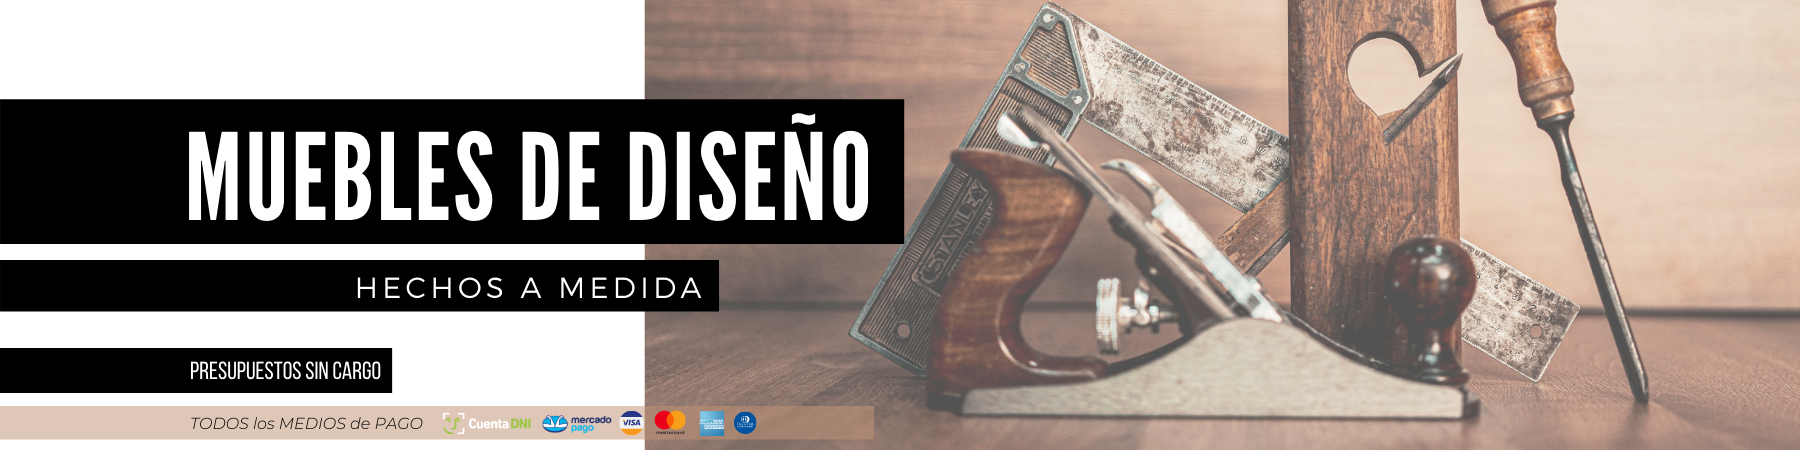
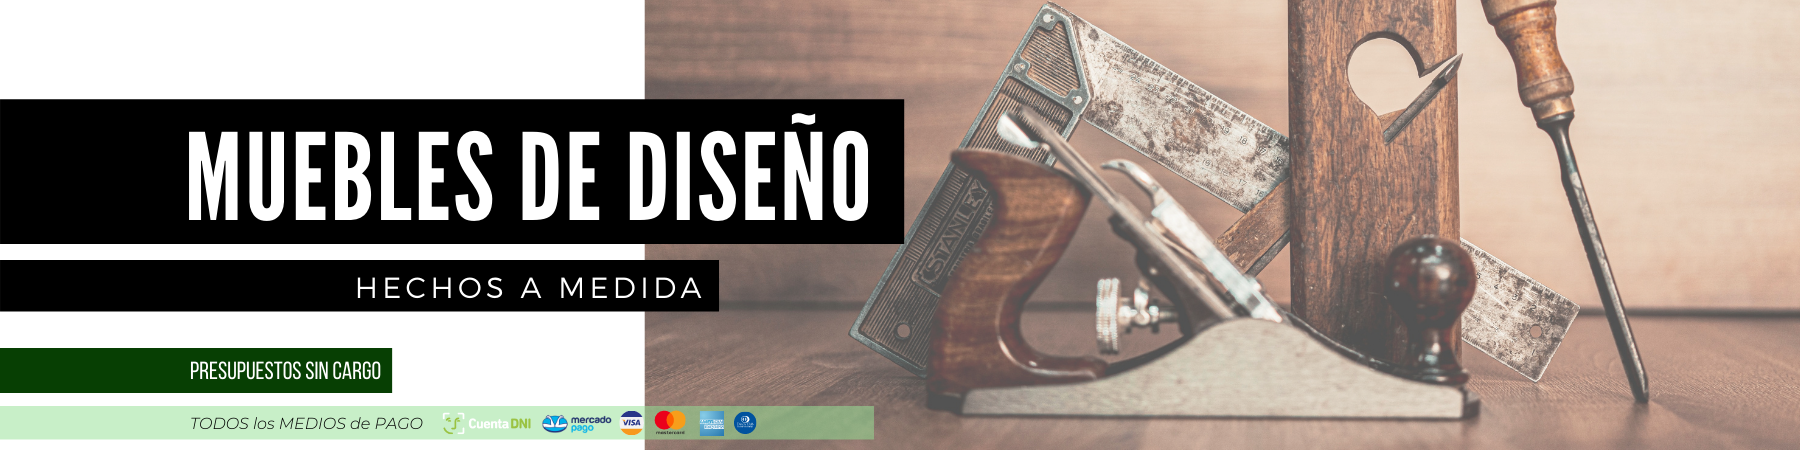
css changes
on product page

Changed region(s): [[0.0, 0.9022, 0.4978, 0.9956], [0.0, 0.7467, 0.2178, 0.8711]]

diff --git a/public/css/main.css b/public/css/main.css
@@ -1,18 +1,35 @@
 body {
     font-family: "Roboto";
     font-weight: 300;
-    width: 100vw;    
 }
 header {
     display: flex;
     align-content: flex-start;
     justify-content: space-between;
-    height: 15vh;
+    height: 10vh;
+    padding: 0px 5px;
   }
   .Logo {
     display: flex;
+    border-radius: 4px;
   }
   
+  .banner {
+    background-image: url("../images/presupuestos sin cargo.png");
+    background-repeat: no-repeat;
+    background-size: contain;
+    display: flex;
+    max-width: 100vw;
+    height:50vh;
+  }
+
+  a{
+    text-decoration: none;
+  }
+  a:-webkit-any-link {
+    color: black;
+    cursor: pointer;
+}
   .nav img {
     width: 4vh;
     padding: 15%;
@@ -22,15 +39,12 @@ header {
     justify-content: flex-end;
     align-items: center;
   }
-  .banner {
-    display: flex;
-    max-width: 100vw;
-  }
+  
   .titulo {
     display: flex;
     font-family: "Caveat";
     font-weight: 100;
-    font-size: larger;
+    font-size: large;
     
   }
   .titulo h1 {
@@ -42,6 +56,8 @@ header {
     padding-left: 2%;
     padding-top: 1%;
     font-weight: 400;
+    font-family: "Montserrat", sans-serif;
+    font-size: xx-large;
 }
 .Categoria {
     *display: flex;
@@ -52,7 +68,7 @@ header {
 .imagenProducto {
     display: flex;
     object-fit: cover;
-    max-width: 19.8vw;
+    max-width: 19.6vw;
     height: 40vh;
     border-radius: 13px 13px 0px 0px;
   }
@@ -78,7 +94,7 @@ header {
     display: flex;
     justify-content: center;
     color: white;
-    font-weight: 500;
+    font-weight: 600;
     font-size: medium;
     width: 100%;
     margin: 0px;
@@ -87,75 +103,122 @@ header {
     padding-right: 1px;
     background-color: black;
   }
-  .paginaProducto{
-      display: flex;
-      flex-direction: column;
-      align-items: center;
+  
+/*--------------PRODUCTOS------------*/
+
+  section {
+    padding-top: 3%;
   }
   .imgproducto{
-      width: 17vw;
+      max-width: 45vw;
   }
   .tituloProducto{
       display: flex;
       align-items: flex-start;
-      padding-left: 3vw;
+      color: #073f03;
+      *background-color:rgba(150,225,150) ;
+      padding: 5px 0px 5px 5px;
+      font-family: 'Monserrat Light', sans-serif;
+      font-weight: 300;
+      font-size: xx-large;
+      text-decoration: underline rgba(150,225,150) ;
+      
   }
   .descrip {
     text-align: center;
   }
   table{
-    border: 3px solid purple;
     max-width: 50vw;
     margin-top: 5vh;
   }
   th, td {
     width: 25%;
     text-align: center;
-    vertical-align: top;
-    border: 1px solid #000;
- }
- .InfoProducto{
-     display: flex;
-     justify-content: center;
- }
- .descripcion{
-     display: flex;
-     flex-direction: column;
-     padding-left: 15vw;
- }
-  
-  @media (max-width: 768px) {
-    .titulo h1 {
-      display: flex;
-      padding-left: 5%;
-      align-self: center;
-      font-size: medium;
-    }
-    .Logo {
-      width: 9vh;
-      height: 9vh;
-    }
-    header {
-      height: 9vh;
-      width: 100vw;
-    }
-    .CardProducto {
-        width: 80%;
-      }
-      .imagenProducto {
-        max-width: 100%;
-      }
-    }
-    .Categoria {
-            flex-direction: column;
-            width: 100vw;
-            justify-content: center;
-            align-items: center;
-        }
-        body {
-            width: 100vw;
-        }
-        .titulosCategorias {
-            font-size: medium;
-        }
-  
+    vertical-align: center;
+    border: 1px solid rgba(150,225,150);
+    border-radius: 5px;
+    padding: 5px;
+}
+.InfoProducto{
+    display: flex;
+    justify-content: center;
+}
+.descripcion{
+    display: flex;
+    flex-direction: column;
+    padding-left: 10%;
+}
+p {
+  font-weight: 600;
+}
+.back {
+  background-color: rgba(150,225,150,0.1);
+}
+.backp {
+  background-color: rgba(150,225,150,0.5);
+}
+
+/*------footer----------*/
+
+.footers {
+  text-align: center;
+  background-color: rgba(150,225,150,0.5);
+  margin-bottom: 0px;
+  padding: 10px 0px;
+  font-size: small;
+  color: #073f03;
+}
+.bolds {
+  font-weight: 700;
+}
+
+/*---------------MEDIA QUERIES-------------------*/
+@media (max-width: 768px) {
+  .titulo h1 {
+    display: flex;
+    padding-left: 5%;
+    align-self: center;
+    font-size: medium;
+  }
+  .Logo {
+    width: 9vh;
+    height: 9vh;
+  }
+  header {
+    height: 9vh;
+  }
+  .CardProducto {
+    width: 90%;
+  }
+  .imagenProducto {
+    max-width: 100%;
+  }
+  .Categoria {
+    flex-direction: column;
+    width: 100vw;
+    justify-content: center;
+    align-items: center;
+  }
+  body {
+    width: 100vw;
+  }
+  .titulosCategorias {
+    font-size: medium;
+  }
+  .descripcion {
+    padding-left: 0%;
+  }
+  .banner {
+    background-image: url("../images/banner-tablet.png") ;
+    height: 30vh;
+  }
+  .InfoProducto {
+    flex-direction: column;
+  }
+  table {
+    max-width: none;
+  }
+  .imgproducto {
+    max-width: 95vw;
+  }
+}

diff --git a/public/productos/sambiaTV.html b/public/productos/sambiaTV.html
@@ -1,0 +1,84 @@
+<!DOCTYPE html>
+<html>
+
+<head>
+    <meta charset="utf-8">
+    <meta name="viewport" content="width=device-width, initial-scale=1">
+    <title>Amoblamientos y Arte</title>
+    <link rel="stylesheet" href="../css/main.css">
+    <!-- Fonts -->
+    <link rel="preconnect" href="https://fonts.googleapis.com">
+    <link rel="preconnect" href="https://fonts.gstatic.com" crossorigin>
+    <link href="https://fonts.googleapis.com/css2?family=Caveat&display=swap" rel="stylesheet">
+    <link href="https://fonts.googleapis.com/css2?family=Caveat&family=Roboto:wght@100&display=swap" rel="stylesheet">
+    <link rel="preconnect" href="https://fonts.googleapis.com">
+    <link rel="preconnect" href="https://fonts.googleapis.com">
+<link rel="preconnect" href="https://fonts.gstatic.com" crossorigin>
+<link href="https://fonts.googleapis.com/css2?family=Montserrat:ital,wght@0,100;0,600;0,700;0,800;0,900;1,100;1,500;1,600;1,900&display=swap" rel="stylesheet">
+    
+</head>
+
+<body>
+    <header>
+        <div class="titulo">
+            <a class= "titulo" href="../index.html">
+            <img src="../images/logo.jpg" alt="Logo amoblamientos y arte" class="Logo">
+            <h1>Amoblamientos y Arte</h1>
+            </a>
+        </div>
+        <nav class="nav">
+            <a href="https://www.instagram.com/amoblamientosyarte/"><img src="../images/instalogo.png"
+                    alt="Icono Instagram"></a>
+            <a href="https://api.whatsapp.com/send?phone=02215682014"><img src="../images/Whatsapp-Icon.png"
+                    alt="Icono whatsapp"></a>
+        </nav>
+    </header>
+    <section>
+        <div class="paginaProducto">
+
+            <div class="InfoProducto">
+                <img src="../images/SambiaTV.jpg" alt="Sambia TV" class="imgproducto">
+                <div class="descripcion">
+                <h1 class="tituloProducto">SAMBIA TV</h1>
+                    <p>/ MADERA: Eucaliptus </p>
+                    <p>/ TERMINACIÓN: Lustre mate o brillante</p>
+                    <p>/ CARACTERÍSTICAS: Estantería rectangular para tv con estructura símil hierro desarmable</p>
+                    <p>/ VARIANTE: Estructura negra, blanca o natural</p>
+                    <p>/ TIEMPO DE FABRICACIÓN: 4 días</p>
+                <table class="table">
+                <tr>
+                    <th class="back" rowspan="2">MODELO</th>
+                    <th class="back" colspan="3">MEDIDAS</th>
+                    <th class="back" rowspan="2">VALOR</th>
+                </tr>
+                <tr>
+                    <th>Largo</th>
+                    <th>Profundidad</th>
+                    <th>Alto</th>
+                </tr>
+                <tr>
+                    <th>M</th>
+                    <th>1,5m</th>
+                    <th>0,3m</th>
+                    <th>1,95m</th>
+                    <th class="backp" >$35.800</th>
+                </tr>
+                <tr>
+                    <th>L</th>
+                    <th>2m</th>
+                    <th>0,3m</th>
+                    <th>1,95m</th>
+                    <th class="backp" >$40.800</th>
+                </tr>
+            </table>
+        </div>
+            </div>
+            
+        </div>
+    </section>
+    <footer>
+        <p class="footers">- Amoblamientos y Arte - 2021</p>
+    </footer>
+</body>
+
+</html>

diff --git a/public/index.html b/public/index.html
@@ -11,12 +11,17 @@
   <link rel="preconnect" href="https://fonts.gstatic.com" crossorigin>
   <link href="https://fonts.googleapis.com/css2?family=Caveat&display=swap" rel="stylesheet">
   <link href="https://fonts.googleapis.com/css2?family=Caveat&family=Roboto:wght@100&display=swap" rel="stylesheet">
+  <link rel="preconnect" href="https://fonts.googleapis.com">
+  <link rel="preconnect" href="https://fonts.googleapis.com">
+<link rel="preconnect" href="https://fonts.gstatic.com" crossorigin>
+<link href="https://fonts.googleapis.com/css2?family=Montserrat:ital,wght@0,100;0,600;0,700;0,800;0,900;1,100;1,500;1,600;1,900&display=swap" rel="stylesheet">
+  
 </head>
 
 <body>
   <header>
     <div class="titulo">
-      <img src="./images/logo.jpg" alt="Logo amoblamientos y arte" class="Logo">
+      <img class="Logo" src="./images/logo.jpg" alt="Logo amoblamientos y arte" class="Logo">
       <h1>Amoblamientos y Arte</h1>
     </div>
     <nav class="nav">
@@ -27,11 +32,12 @@
     </nav>
   </header>
   <section>
-    <img src="./images/presupuestos sin cargo.png" alt="Banner Portada" class="banner">
+    <div class="banner"></div>
+   <!-- <img src="./images/presupuestos sin cargo.png" alt="Banner Portada" class="banner">-->
     <!-- ESTANTERÍAS Y BIBLIOTECAS -->
     <div class="Categoria">
       <h1 class="titulosCategorias">Estanterías y Bibliotecas</h1>
-      <a href="./sambiaTV.html">
+      <a href="./productos/sambiaTV.html">
         <div class="CardProducto">
           <div class="fondoFoto">
             <img src="./images/SambiaTV.jpg" alt="Foto SambiaTVconPuertas" class="imagenProducto" />
@@ -376,6 +382,9 @@
         </div>
       </div>
   </section>
+  <footer>
+      <p class="footers">- Amoblamientos y Arte - 2021</p>
+  </footer>
 </body>
 
 </html>
